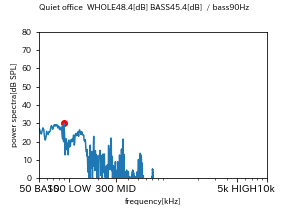
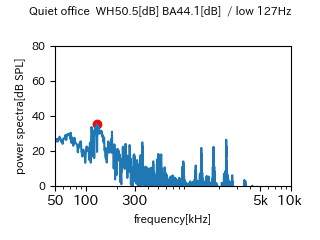
Mnt Signed-off-by: TANAKA Hidemune <auau@kne.biglobe.ne.jp>

Changed region(s): [[0.0312, 0.1389, 0.9688, 0.9444], [0.0938, 0.0, 0.9062, 0.0833]]

diff --git a/noise_level_measurement_English.py b/noise_level_measurement_English.py
@@ -200,7 +200,7 @@ def main():
                 f = np.linspace(0.0, fs/2.0, len(power)) /1.0e3
                 # Plotting
                 size_f = 8
-                fig = plt.figure(figsize=[4,3], dpi=72, linewidth=0.0, tight_layout=T)
+                fig = plt.figure(figsize=[3.2,2.4], dpi=100, linewidth=0.0, tight_layout=T)
                 #plt.xscale("log",basex=10)
                 
                 axs = fig.subplots(1, 1)
@@ -220,7 +220,7 @@ def main():
                 
                 ############################################
                 pos = [0.050, 0.100, 0.300, 5.000, 10.000] 
-                ticks = ['50 BASS', '100 LOW', '300 MID', '5k HIGH', '10k ']
+                ticks = ['50', '100', '300', '5k', '10k ']
                 ax1.set_xticks(pos)
                 ax1.set_xticklabels(ticks)
                 ############################################
@@ -229,7 +229,7 @@ def main():
                 timestr = now.strftime("%Y%m%d_%H%M%S")
                 timestr = 'Last'
                 fig.align_ylabels()
-                fig.suptitle( strw.replace('*caution','') + " WHOLE{:.1f}[dB] BASS{:.1f}[dB] ".format(db, db2) + " / " + strp, fontsize=size_f)
+                fig.suptitle( strw.replace('*caution','') + " WH{:.1f}[dB] BA{:.1f}[dB] ".format(db, db2) + " / " + strp, fontsize=size_f)
                 fig.savefig(timestr + '.png')
                 im = Image.open(timestr + '.png')
                 im.show()
